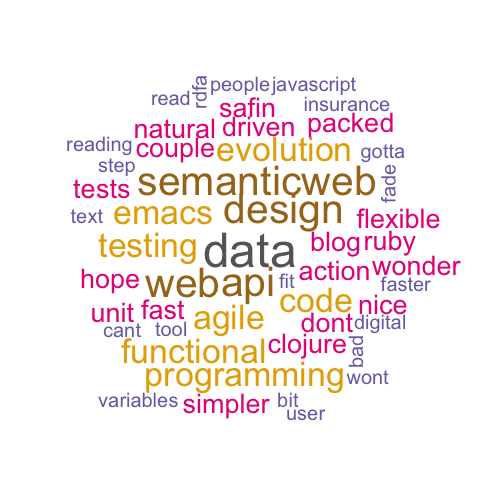
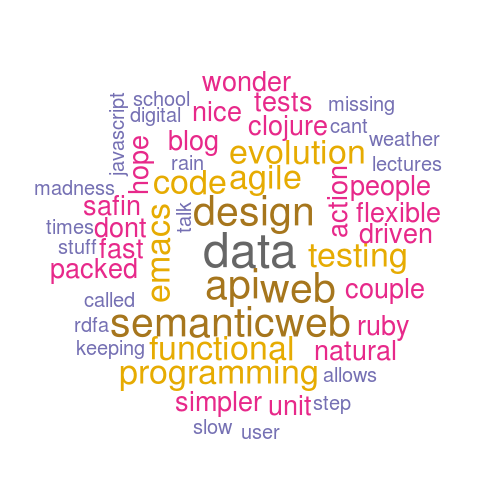
new quotes

Changed region(s): [[0.06, 0.15, 0.93, 0.9]]

diff --git a/pages/quotes.md b/pages/quotes.md
@@ -8,6 +8,14 @@ intro: "Quotes from Twitter"
 
 ### 2012
 
+<blockquote about="{{page.url}}#2012-02-13" property="dcterms:date" datatype="xsd:date" content="2012-02-13">
+<p property='dcterms:description'>being an ace isnt just be able to solve every problem you are given, equaly important is to know which problems are not worth tackling
+</p></blockquote>
+
+<blockquote about="{{page.url}}#2012-02-13" property="dcterms:date" datatype="xsd:date" content="2012-02-13">
+<p property='dcterms:description'>if stuff seems obvious and people around you keep missing it, then likelly you lack imagination (& fail to see other possibilities)
+</p></blockquote>
+
 <blockquote about="{{page.url}}#2012-01-23" property="dcterms:date" datatype="xsd:date" content="2012-01-23">
 <p property='dcterms:description'>evolution says that the best fit end up doing better and more widespread, so if you find yourself being very unique and different, beware
 </p></blockquote>
